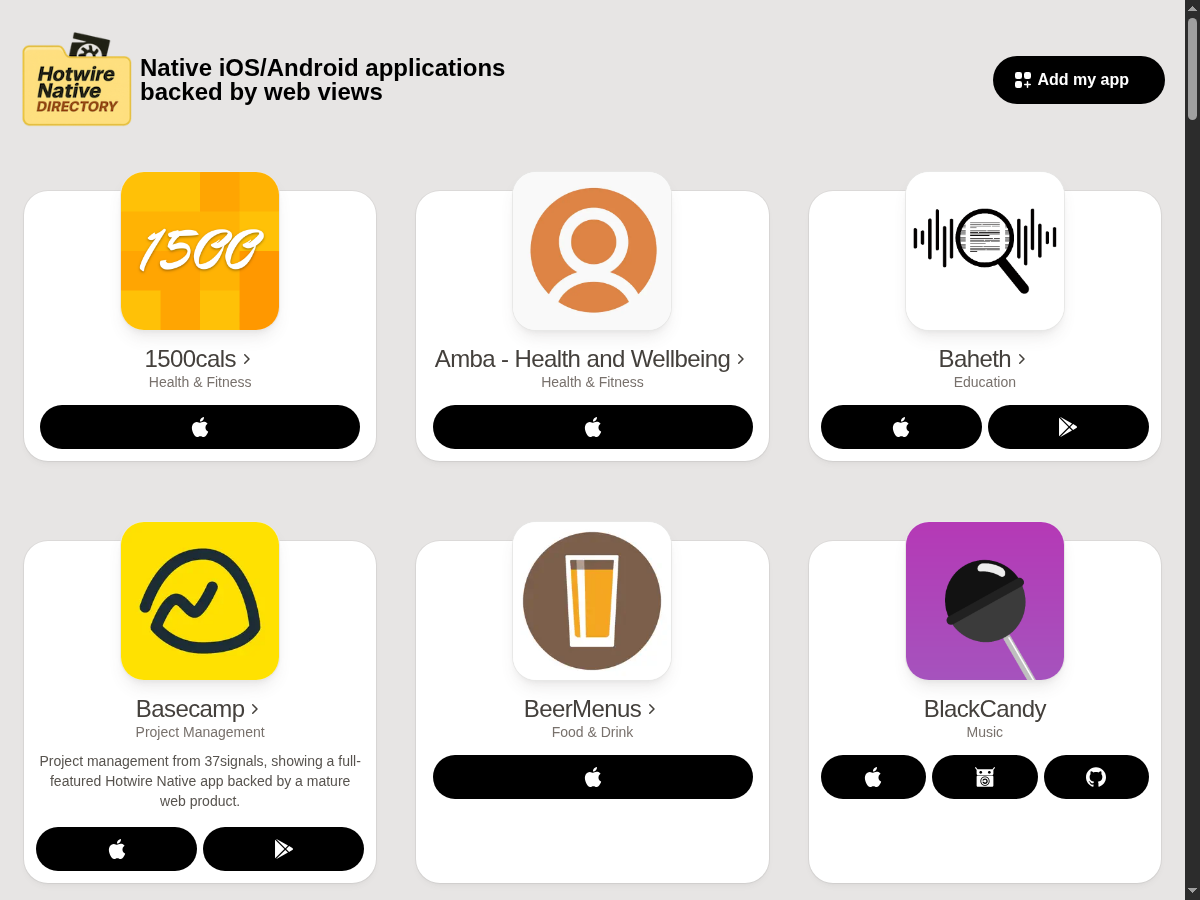
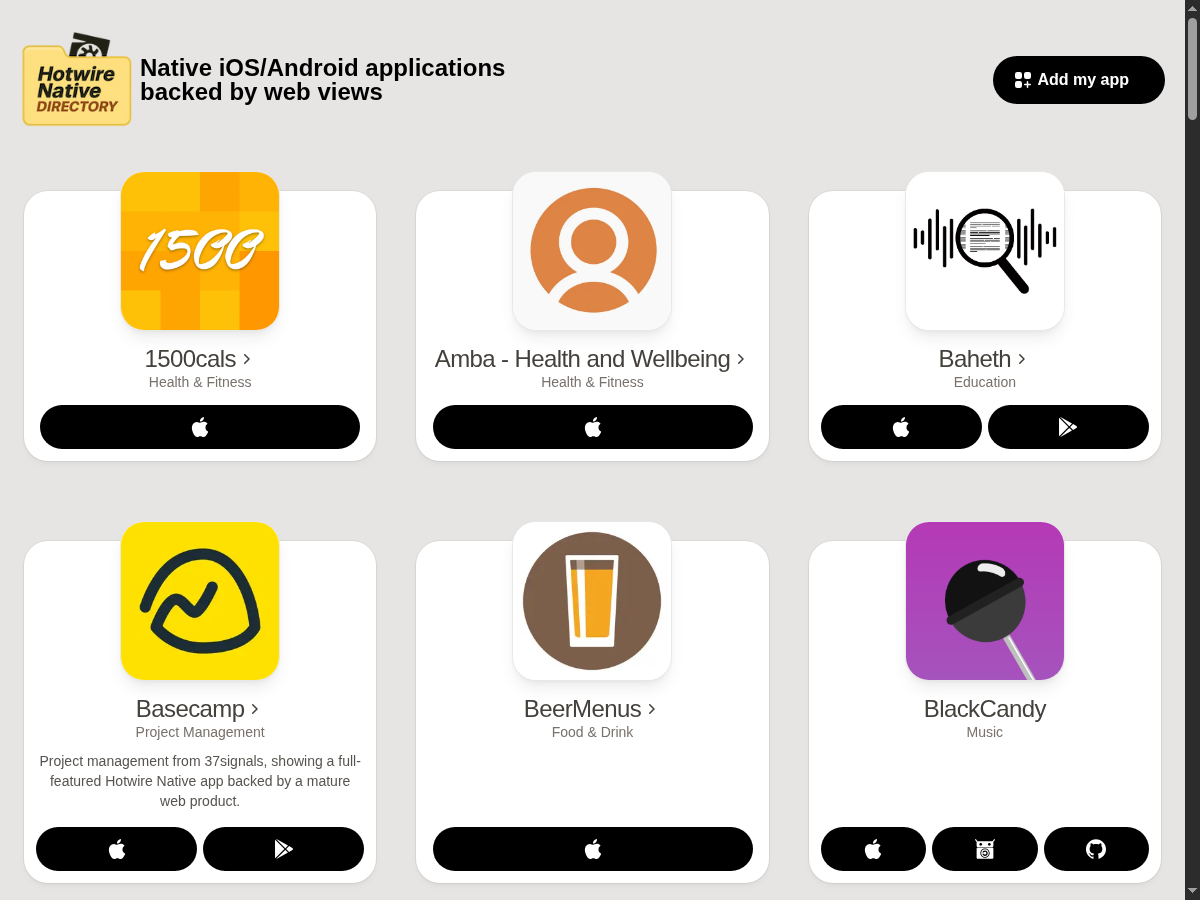
fix: pin app card buttons to bottom

Changed region(s): [[0.3392, 0.84, 0.6475, 0.9956], [0.6783, 0.84, 0.9558, 0.9956]]

diff --git a/test/controllers/home_page_test.rb b/test/controllers/home_page_test.rb
@@ -17,4 +17,11 @@ class HomeControllerTest < ActionDispatch::IntegrationTest
       assert_select "p.app-description", false
     end
   end
+
+  test "download buttons stay pinned to the bottom of cards" do
+    get root_path
+
+    assert_select "li.app.flex.flex-col.h-full"
+    assert_select "li.app ul.mt-auto"
+  end
 end
